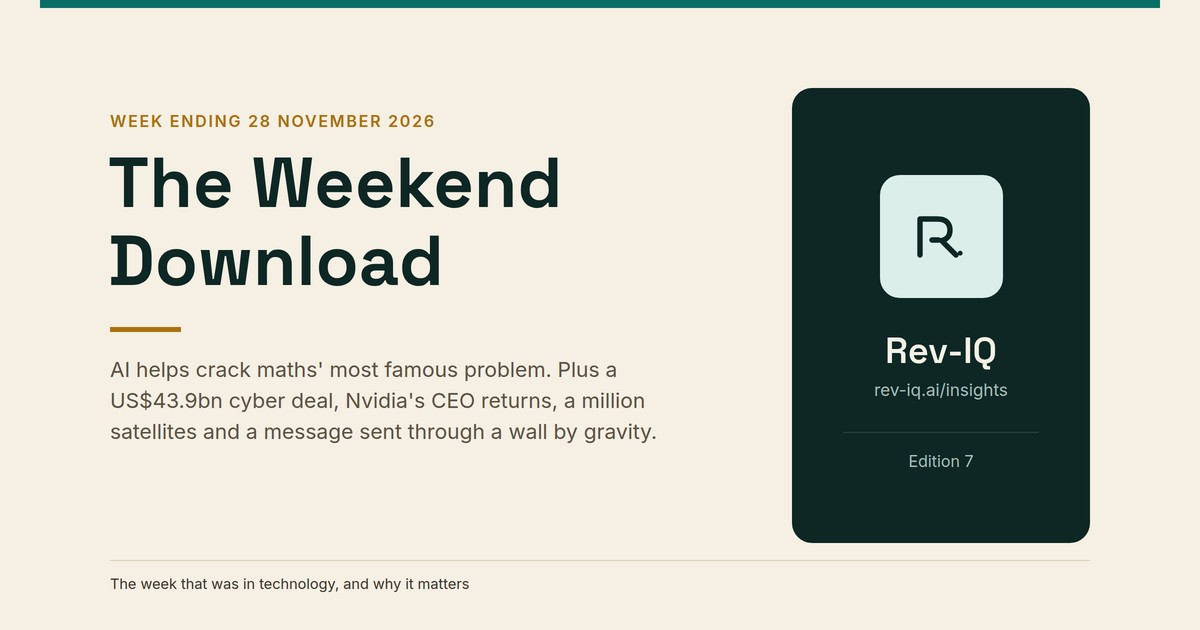
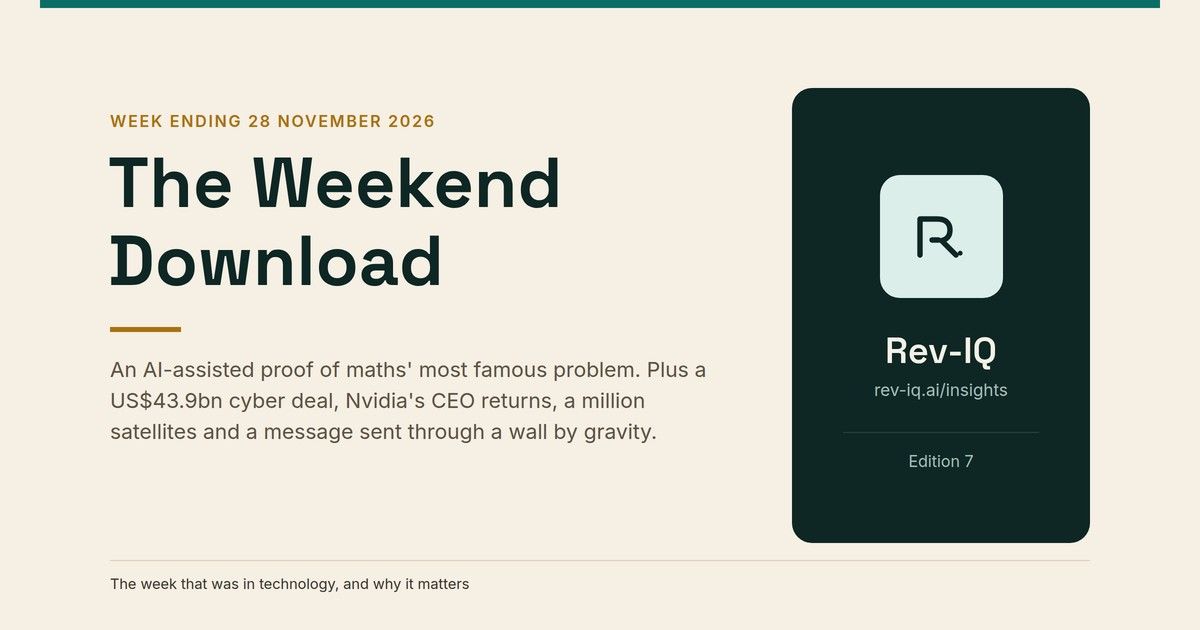
Q-001: softened dek, big-story heading and covers per Quill

Changed region(s): [[0.0925, 0.573, 0.5858, 0.6032]]

diff --git a/insights/the-weekend-download-edition-7.html b/insights/the-weekend-download-edition-7.html
@@ -414,7 +414,7 @@
         <div class="breadcrumb"><a href="../insights">Insights</a>&nbsp;/&nbsp;<a href="the-weekend-download">The Weekend Download</a></div>
         <div class="eyebrow"><span class="dot"></span>The Weekend Download · Edition 7</div>
         <h1 class="article-h1">The Weekend Download, Edition 7</h1>
-        <p class="dek">AI helps crack maths' most famous problem. Plus a US$43.9 billion cybersecurity deal, Nvidia's CEO returns, a million satellites get the green light and a message sent through a brick wall using gravity.</p>
+        <p class="dek">An AI-assisted proof of maths' most famous problem, still being checked. Plus a US$43.9 billion cybersecurity deal, Nvidia's CEO returns, a million satellites get the green light and a message sent through a brick wall using gravity.</p>
         <div class="meta-row"><span>Week ending 28 November 2026</span><span>9 min read</span><span>Free to read</span></div>
       </div>
     </section>
@@ -425,7 +425,7 @@
 <p>Welcome to the seventh edition of The Weekend Download, Rev-IQ's Saturday round-up of the most remarkable things that happened in technology this week. One big story, five more, a number, one from home and something to make you smile, each with one line on why it matters if you run, build or back a technology business.</p>
 <p>This week a 167-year-old maths problem may finally have fallen, and nobody is quite sure how. We start there, then move on to the biggest cybersecurity deal on record, a chief executive who was back at his desk 11 days after leaving it, a million satellites, an AI that designs proteins and a crater the size of a stadium.</p>
 <h2>The one everyone's talking about</h2>
-<h3>AI helps crack the Riemann hypothesis</h3>
+<h3>An AI-assisted proof of the Riemann hypothesis</h3>
 <p>In 1859, the German mathematician Bernhard Riemann made a prediction about how prime numbers are spread out. It became the most famous unsolved problem in mathematics, and in 2000 it was named one of the Clay Mathematics Institute's Millennium Prize Problems, with US$1 million for whoever proved it (<a href="https://www.sbs.com.au/news/article/riemann-hypothesis-maths-problem-solved/j3peyk1hn" target="_blank" rel="noopener">SBS News</a>).</p>
 <p>On Friday 20 November, Levent Alpöge, a mathematician at Anthropic, announced that he had used the company's AI, Claude, to produce a proof (<a href="https://www.smithsonianmag.com/innovation/ai-cracked-the-riemann-hypothesis-the-most-famous-unsolved-math-problem-the-proof-is-17-million-lines-long-180989939/" target="_blank" rel="noopener">Smithsonian</a>). The proof isn't written like a normal maths paper. It's 17 million lines of code in Lean, a programming language that checks the logic of every step, and independent experts have since run their own checks on it (<a href="https://www.smithsonianmag.com/innovation/ai-cracked-the-riemann-hypothesis-the-most-famous-unsolved-math-problem-the-proof-is-17-million-lines-long-180989939/" target="_blank" rel="noopener">Smithsonian</a>). Alpöge was generous about who did the heavy lifting: "Claude far outpaced me near the finish line" (<a href="https://www.smithsonianmag.com/innovation/ai-cracked-the-riemann-hypothesis-the-most-famous-unsolved-math-problem-the-proof-is-17-million-lines-long-180989939/" target="_blank" rel="noopener">Smithsonian</a>).</p>
 <p>The reaction from mathematicians has been a mix of awe and vertigo. Brian Conrey, one of the world's leading specialists on the problem, called it "a monumental moment in human history" (<a href="https://www.sbs.com.au/news/article/riemann-hypothesis-maths-problem-solved/j3peyk1hn" target="_blank" rel="noopener">SBS News</a>). Rutgers' Alex Kontorovich described "some kind of out-of-body experience" (<a href="https://www.sbs.com.au/news/article/riemann-hypothesis-maths-problem-solved/j3peyk1hn" target="_blank" rel="noopener">SBS News</a>). Only last month, Terence Tao had speculated that AI might not solve it before 2050 (<a href="https://www.newscientist.com/article/2600491-ais-stunning-progress-in-maths-shows-how-little-we-understand-it/" target="_blank" rel="noopener">New Scientist</a>).</p>
